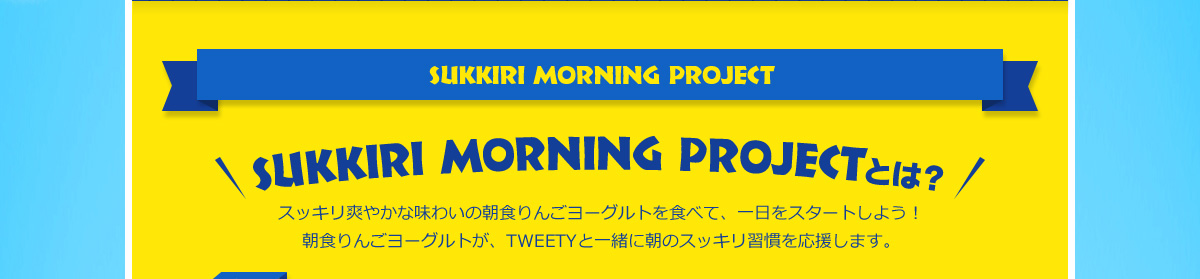
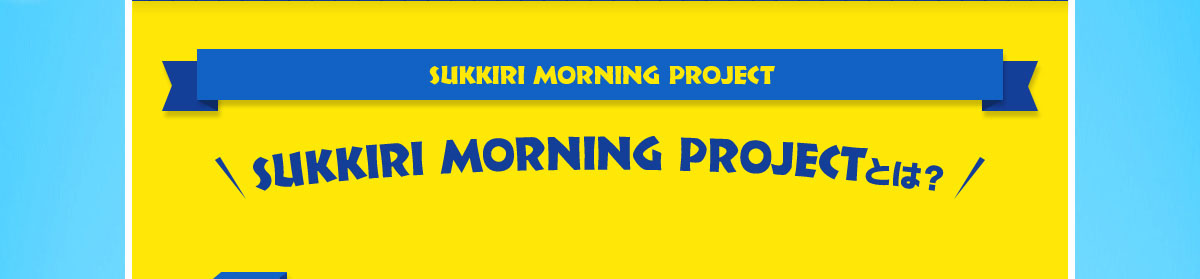
update WR 2 and 1

Changed region(s): [[0.2467, 0.7168, 0.7708, 0.8029], [0.2467, 0.8315, 0.74, 0.8889]]

diff --git a/WebResponsive/bai2/css/styles.css b/WebResponsive/bai2/css/styles.css
@@ -4,7 +4,7 @@
   box-sizing: border-box;
 }
 body {
-  font-size: 21px;
+  font-size: 16px;
 }
 .container {
   min-width: 320px;
@@ -52,7 +52,7 @@ body {
 .content h1 {
   text-align: center;
   width: 100%;
-  padding: 45px 0px;
+  margin-top: 45px;
 }
 .row {
   width: 50%;
@@ -69,7 +69,7 @@ body {
 p {
   margin: 20px 40px;
   text-align: left;
-  min-height: 210px
+  min-height: 120px
 }
 .info {
   min-height: 0px;
